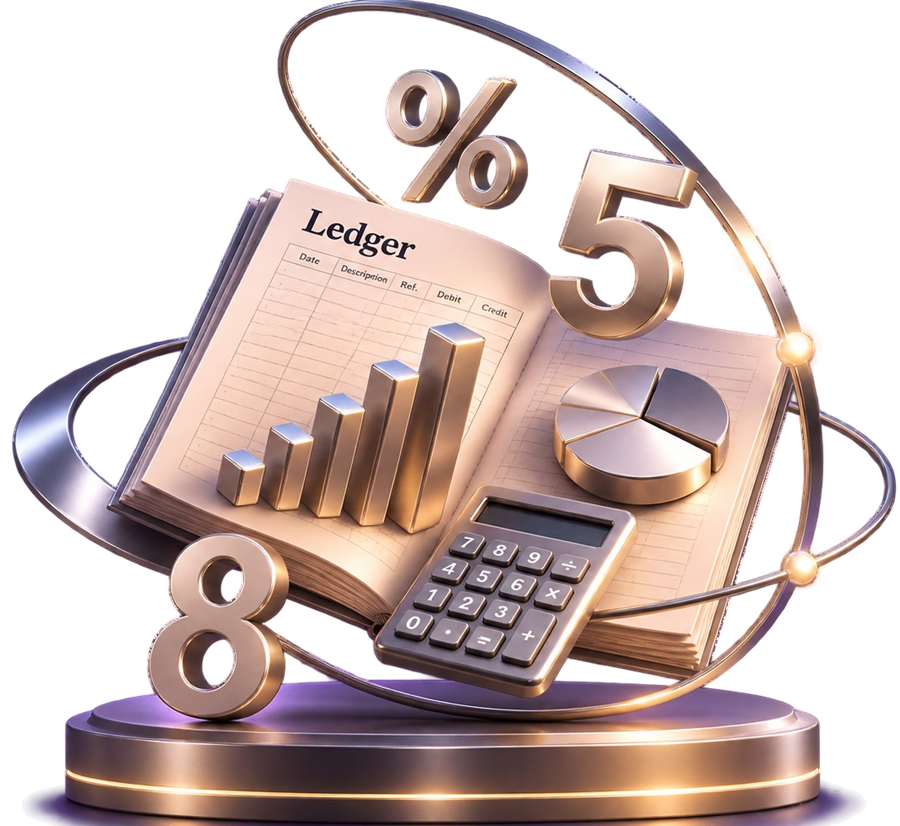
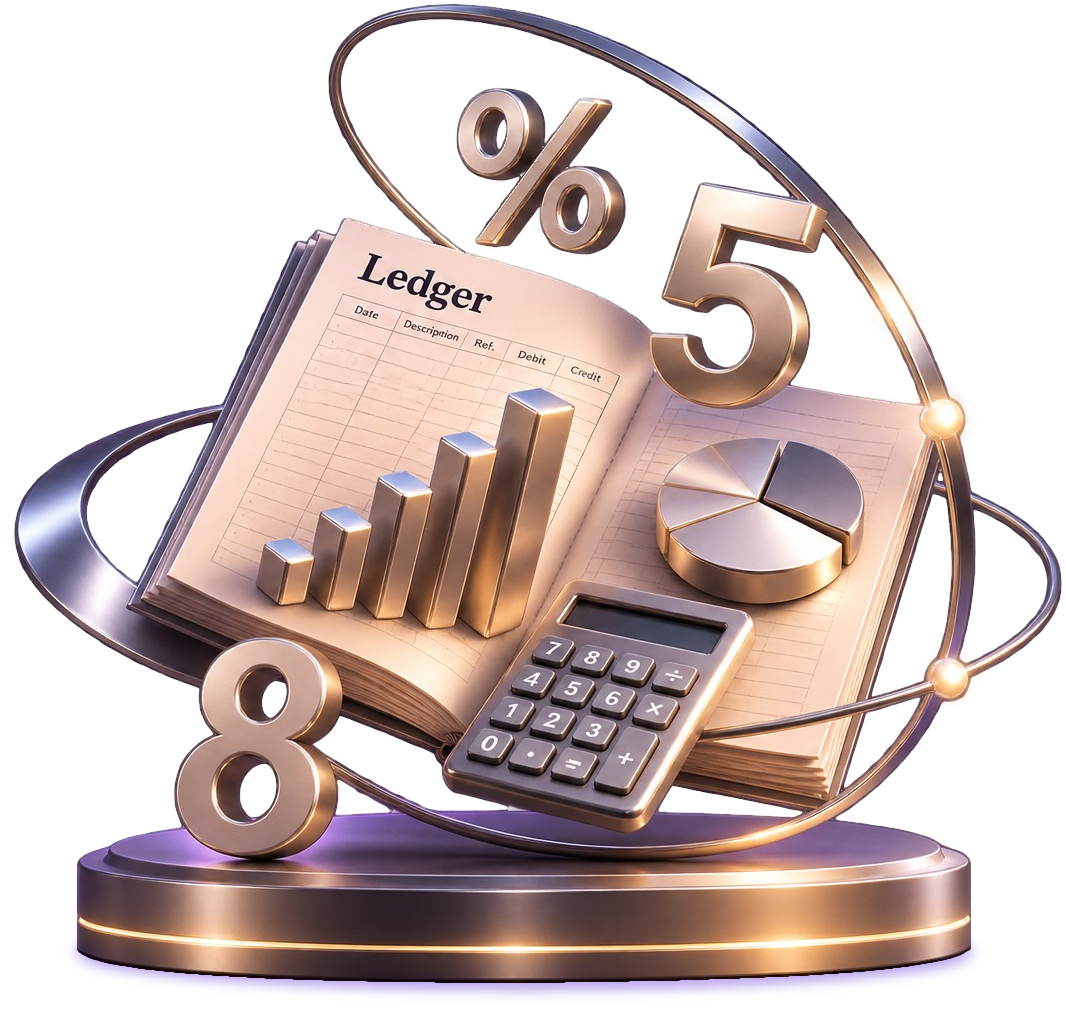
Hero image: cleaner edges and pedestal glow

diff --git a/docs/index.html b/docs/index.html
@@ -94,7 +94,7 @@
     <div class="hero__art">
       <picture class="hero__scene">
         <source srcset="assets/img/hero-scene.webp" type="image/webp">
-        <img src="assets/img/hero-scene.png" width="900" height="826" alt="" data-alt="hero.illustrationAlt" decoding="async">
+        <img src="assets/img/hero-scene.png" width="1066" height="1018" alt="" data-alt="hero.illustrationAlt" decoding="async">
       </picture>
       <ul class="hero__tags" data-hero-tags></ul>
     </div>
